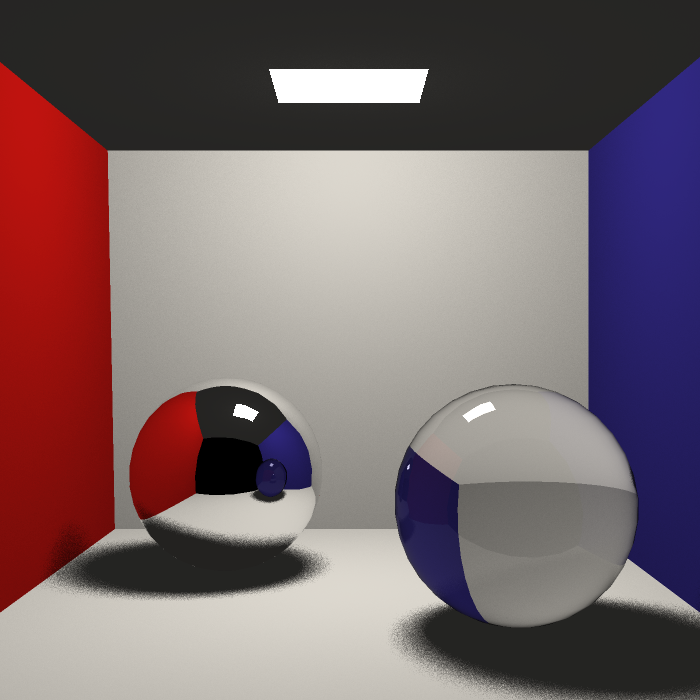
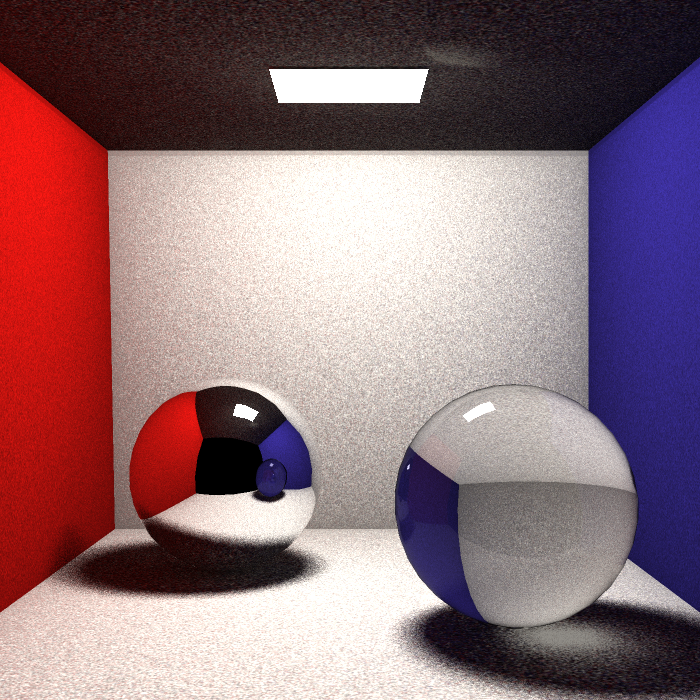
adding working photon map

diff --git a/src/photon_map.rs b/src/photon_map.rs
@@ -15,6 +15,7 @@ use vectors::Vec4d;
 struct Photon {
   colour: Colour,
   position: Vec4d,
+  direction: Vec4d,
 }
 
 impl HasBoundingBox for Photon {
@@ -53,7 +54,7 @@ fn random_in_hemisphere(normal: Vec4d) -> Vec4d {
 }
 
 impl PhotonMap {
-  pub fn new(scene: &Scene) -> PhotonMap {
+  pub fn new(scene: &Scene, max_elements_per_leaf: usize) -> PhotonMap {
     let mut photons: Vec<Photon> = vec![];
     let lights = &scene.get_lights();
     let mut virtual_lights: Vec<LightSample> = vec![];
@@ -64,7 +65,7 @@ impl PhotonMap {
     let mut max_bounces: usize = 0;
     let mut paths = 0;
     let start = std::time::Instant::now();
-    let photon_count = 1000000;
+    let photon_count = 10000000;
     while photons.len() < photon_count {
       'photon_loop: for sample in &virtual_lights {
         paths += 1;
@@ -91,7 +92,7 @@ impl PhotonMap {
 
         let mut throughput = Colour::RGB(1.0, 1.0, 1.0);
         let mut photon_ray = Ray::new(sample.position + light_dir * 0.01, light_dir, None);
-        let mut photon_colour = Colour::from(sample.specular);
+        let mut photon_colour = Colour::from(sample.diffuse);
         let mut path_length: usize = 0;
         'photon_bounce_loop: while photons.len() < photon_count && path_length < 16 {
           bounces += 1;
@@ -110,11 +111,6 @@ impl PhotonMap {
 
           let surface: MaterialCollisionInfo = material.compute_surface_properties(scene, &photon_ray, &fragment);
 
-          photons.push(Photon {
-            colour: photon_colour * surface.diffuse_colour,
-            position: fragment.position,
-          });
-
           let mut next = {
             let mut selection = random(0.0, 1.0);
             let mut result = None;
@@ -128,6 +124,16 @@ impl PhotonMap {
             }
             result
           };
+          if bounces > 1 {
+            photons.push(Photon {
+              colour: photon_colour * surface.diffuse_colour,
+              position: fragment.position,
+              direction: match &next {
+                None => surface.normal,
+                Some((ray, _)) => ray.direction,
+              },
+            });
+          }
           if next.is_none() {
             let diffuse_direction = random_in_hemisphere(surface.normal);
             let diffuse_intensity = diffuse_direction.dot(surface.normal);
@@ -155,7 +161,7 @@ impl PhotonMap {
 
           let (next_ray, next_colour) = next.unwrap();
 
-          // Now we know the colour and diretion of the next bounce, let's decide if we're keeping it.
+          // Now we know the colour and direction of the next bounce, let's decide if we're keeping it.
           throughput = throughput * next_colour;
           let p = random(0.0, 1.0);
           if p > throughput.intensity() {
@@ -178,11 +184,30 @@ impl PhotonMap {
     println!("Average path length: {}", average_bounces);
     println!("Total paths: {}", paths);
     println!("Max path length: {}", max_bounces);
-    let tree = KDTree::new(&photons);
+    let tree = KDTree::new(&photons, max_elements_per_leaf);
     let (min, max) = tree.depth();
     println!("Tree minimum depth {}", min);
     println!("Tree maximum depth {}", max);
 
     return PhotonMap { tree };
+  }
+  pub fn lighting(&self, position: Vec4d, direction: Vec4d, photon_samples: usize) -> Colour {
+    if photon_samples == 0 {
+      return Colour::RGB(0.0, 0.0, 0.0);
+    }
+    let mut result = Vec4d::new();
+    let (photons, radius) = self.tree.nearest(position, photon_samples);
+    let mut count = 0.0;
+    for photon in &photons {
+      let photon_distance = (photon.position - position).length();
+      let contribution = 1.0; //- photon_distance / radius; // - photon_distance / (radius * radius);
+      let pd_dot_n = photon.direction.dot(direction);
+      if pd_dot_n < 0.0 {
+        continue;
+      }
+      result = result + Vec4d::from(photon.colour) * contribution; // * pd_dot_n;
+      count += 1.0;
+    }
+    return Colour::from(result * (1.0 / count));
   }
 }

diff --git a/src/scene.rs b/src/scene.rs
@@ -68,9 +68,9 @@ impl Scene {
     return self._scene.intersect(ray, ray.min, ray.max);
   }
 
-  pub fn finalize(&mut self) {
+  pub fn finalize(&mut self, max_elements_per_leaf: usize) {
     self._scene.finalize();
-    self.rebuild_photon_map();
+    self.rebuild_photon_map(max_elements_per_leaf);
   }
 
   pub fn get_normal(&self, idx: usize) -> Vec4d {
@@ -79,8 +79,8 @@ impl Scene {
     return n;
   }
 
-  fn rebuild_photon_map(&mut self) {
-    self.photon_map = Some(PhotonMap::new(self));
+  fn rebuild_photon_map(&mut self, max_elements_per_leaf: usize) {
+    self.photon_map = Some(PhotonMap::new(self, max_elements_per_leaf));
   }
 
   pub fn get_texture_coordinate(&self, idx: usize) -> Vec2d {
@@ -98,7 +98,7 @@ impl Scene {
     return &self.textures[idx];
   }
 
-  fn intersect_ray(&self, ray: &Ray, lights: &Vec<Vec4d>, depth: usize) -> Vec4d {
+  fn intersect_ray(&self, ray: &Ray, lights: &Vec<Vec4d>, photon_samples: usize, depth: usize) -> Vec4d {
     if depth > 10 {
       return Vec4d::vector(1.0, 1.0, 1.0);
     }
@@ -106,6 +106,7 @@ impl Scene {
       None => return Vec4d::new(),
       Some((c, shadable)) => {
         let fragment = shadable.compute_fragment(self, ray, &c);
+
         let material = match fragment.material {
           Some(inner) => self.get_material(inner),
           None => return Vec4d::new(),
@@ -120,7 +121,10 @@ impl Scene {
         let mut colour = if surface.secondaries.len() > 0 {
           Vec4d::new()
         } else {
-          ambient_colour * 0.2
+          match &self.photon_map {
+            None => ambient_colour * 0.2,
+            Some(photon_map) => Vec4d::from(photon_map.lighting(fragment.position, fragment.normal, photon_samples)),
+          }
         };
         if true {
           let mut remaining_weight = 1.0;
@@ -130,7 +134,9 @@ impl Scene {
             }
             remaining_weight -= weight;
             colour = colour
-              + Vec4d::from(Colour::from(self.intersect_ray(ray, lights, depth + 1)) * *secondary_colour * *weight);
+              + Vec4d::from(
+                Colour::from(self.intersect_ray(ray, lights, photon_samples, depth + 1)) * *secondary_colour * *weight,
+              );
           }
           diffuse_colour = diffuse_colour * remaining_weight;
           if diffuse_colour.length() <= 0.01 {
@@ -210,7 +216,7 @@ impl Scene {
       .collect();
     };
   }
-  pub fn render<C: Camera>(&self, camera: &C, size: usize) -> DynamicImage {
+  pub fn render<C: Camera>(&self, camera: &C, photon_samples: usize, size: usize) -> DynamicImage {
     let mut result = image::RgbImage::new(size as u32, size as u32);
     let mut buffer: Vec<Vec<Vec4d>> = vec![];
     for _ in 0..(size * size) {
@@ -219,11 +225,11 @@ impl Scene {
     let rays = camera.get_rays(size, size);
 
     let lights = self.get_light_samples(10000).iter().map(|l| l.position).collect();
-
+    println!("photon samples: {}", photon_samples);
     let iteration_count = 1;
     for _ in 0..iteration_count {
       for (x, y, pixel_contribution_weight, ray) in &rays {
-        let colour = self.intersect_ray(ray, &lights, 0);
+        let colour = self.intersect_ray(ray, &lights, photon_samples, 0);
         buffer[x + y * size].push(colour * (*pixel_contribution_weight / iteration_count as f64));
       }
     }

diff --git a/src/triangle.rs b/src/triangle.rs
@@ -47,18 +47,22 @@ impl Light for Triangle {
         .add_elements(b.scale(r1_root * (1.0 - r2)))
         .add_elements(c.scale(r1_root * r2));
       point.w = 1.0;
-      let light_direction: Vec4d = match (self.normals[0], self.normals[1], self.normals[2]) {
-        (Some(n_idx0), Some(_), Some(_)) => n_idx0.get(scene),
-        (Some(idx), None, None) => idx.get(scene),
-        (None, Some(idx), None) => idx.get(scene),
-        (None, None, Some(idx)) => idx.get(scene),
-        _ => self.edges[0].normalize().cross(self.edges[1].normalize()).normalize(),
+      let normal = self.true_normal();
+      let ray = Ray::new(point + normal, normal * -1.0, None);
+      let (collision, _) = self.intersect(&ray, 0.0, std::f64::INFINITY).unwrap();
+      let fragment = self.compute_fragment(scene, &ray, &collision);
+
+      let material = match fragment.material {
+        Some(inner) => scene.get_material(inner),
+        None => panic!(),
       };
+      let surface = material.compute_surface_properties(scene, &ray, &fragment);
+
       let sample = LightSample {
         position: point,
-        direction: Some(light_direction),
-        specular: Vec4d::new(),
-        diffuse: Vec4d::new(),
+        direction: Some(fragment.normal),
+        specular: Vec4d::from(surface.specular_colour),
+        diffuse: Vec4d::from(surface.diffuse_colour),
         weight: 1.0 / (count as f64),
       };
       lights.push(sample);
@@ -202,6 +206,27 @@ impl Triangle {
     }
 
     return Some((Collision::new(t, Vec2d(u, v)), self));
+  }
+
+  pub fn barycentric_for_point(&self, position: Vec4d) -> (f64, f64, f64) {
+    // From https://gamedev.stackexchange.com/questions/23743/whats-the-most-efficient-way-to-find-barycentric-coordinates
+    let v0 = self.edges[0];
+    let v1 = self.edges[1];
+    let v2 = position - self.origin;
+    let d00 = v0.dot(v0);
+    let d01 = v0.dot(v1);
+    let d11 = v1.dot(v1);
+    let d20 = v2.dot(v0);
+    let d21 = v2.dot(v1);
+    let denom = d00 * d11 - d01 * d01;
+    let v = (d11 * d20 - d01 * d21) / denom;
+    let w = (d00 * d21 - d01 * d20) / denom;
+    let u = 1.0 - v - w;
+    return (u, v, w);
+  }
+
+  fn true_normal(&self) -> Vec4d {
+    self.edges[0].normalize().cross(self.edges[1].normalize()).normalize()
   }
 }
 

diff --git a/src/kdtree.rs b/src/kdtree.rs
@@ -150,8 +150,12 @@ impl<T: Clone + HasPosition> KDTree<T> {
   }
 }
 
-fn build_tree<T: Clone + HasBoundingBox + HasPosition>(elements: &[T], bounds: BoundingBox) -> KDTreeNode<T> {
-  if elements.len() < 8 {
+fn build_tree<T: Clone + HasBoundingBox + HasPosition>(
+  elements: &[T],
+  bounds: BoundingBox,
+  max_children: usize,
+) -> KDTreeNode<T> {
+  if elements.len() < max_children {
     return KDTreeNode::Leaf(elements.to_vec(), bounds);
   }
   let max_axis = bounds.max_axis();
@@ -183,22 +187,27 @@ fn build_tree<T: Clone + HasBoundingBox + HasPosition>(elements: &[T], bounds: B
   return KDTreeNode::Node(KDTreeInnerNode {
     axis: max_axis,
     value: split_point,
-    children: Box::new([build_tree(left, left_bounds), build_tree(right, right_bounds)]),
+    children: Box::new([
+      build_tree(left, left_bounds, max_children),
+      build_tree(right, right_bounds, max_children),
+    ]),
     bounds: bounds,
   });
 }
 
 impl<T: Clone + HasBoundingBox + HasPosition> KDTree<T> {
-  pub fn new(elements: &[T]) -> Self {
+  pub fn new(elements: &[T], max_children: usize) -> Self {
     let mut bounds = BoundingBox::new();
     for elem in elements {
       bounds = bounds.merge_with_bbox(elem.bounds());
     }
+    println!("Max children: {}", max_children);
     return KDTree {
-      root: build_tree(elements, bounds),
+      root: build_tree(elements, bounds, max_children),
     };
   }
-  pub fn nearest(&self, position: Vec4d, count: usize) -> Vec<T> {
-    return self.root.nearest(position, count, std::f64::INFINITY).0;
+  pub fn nearest(&self, position: Vec4d, count: usize) -> (Vec<T>, f64) {
+    let (elements, _, distance) = self.root.nearest(position, count, std::f64::INFINITY);
+    return (elements, distance);
   }
 }

diff --git a/src/main.rs b/src/main.rs
@@ -39,6 +39,8 @@ struct SceneSettings {
   pub camera_position: Vec4d,
   pub camera_target: Vec4d,
   pub camera_up: Vec4d,
+  pub max_leaf_photons: usize,
+  pub photon_samples: usize,
 }
 
 impl SceneSettings {
@@ -49,6 +51,8 @@ impl SceneSettings {
       camera_position: Vec4d::point(0., 0.5, 0.),
       camera_target: Vec4d::point(0., 0., 10000000.),
       camera_up: Vec4d::vector(0.0, 1.0, 0.0),
+      max_leaf_photons: 8,
+      photon_samples: 0,
     };
   }
 }
@@ -100,6 +104,20 @@ fn load_settings() -> SceneSettings {
     Ok(value) => settings.camera_target = value.as_point(),
     _ => {}
   }
+  match value_t!(matches, "max_leaf_photons", usize) {
+    Ok(value) => {
+      println!("max-leaf-photons: {}", value);
+      settings.max_leaf_photons = value.max(4);
+    }
+    _ => {}
+  }
+  match value_t!(matches, "photon_samples", usize) {
+    Ok(value) => {
+      println!("photon_samples: {}", value);
+      settings.photon_samples = value;
+    }
+    _ => {}
+  }
   return settings;
 }
 
@@ -107,7 +125,8 @@ fn main() {
   let settings = load_settings();
 
   const SIZE: usize = 700;
-  let scn = load_scene(&settings.scene_file);
+  let mut scn = load_scene(&settings.scene_file);
+  scn.finalize(settings.max_leaf_photons);
   let camera = PerspectiveCamera::new(
     SIZE,
     SIZE,
@@ -118,7 +137,7 @@ fn main() {
   );
 
   let start = std::time::Instant::now();
-  let output = scn.render(&camera, SIZE);
+  let output = scn.render(&camera, settings.photon_samples, SIZE);
   let end = std::time::Instant::now();
   let delta = end - start;
   let time = (delta.as_secs() * 1000 + delta.subsec_millis() as u64) as f64 / 1000.0;

diff --git a/src/wavefront_material.rs b/src/wavefront_material.rs
@@ -489,6 +489,5 @@ pub fn load_scene(path: &str) -> Scene {
   scn.materials.append(&mut materials);
   scn.textures.append(&mut textures);
 
-  scn.finalize();
   return scn;
 }
